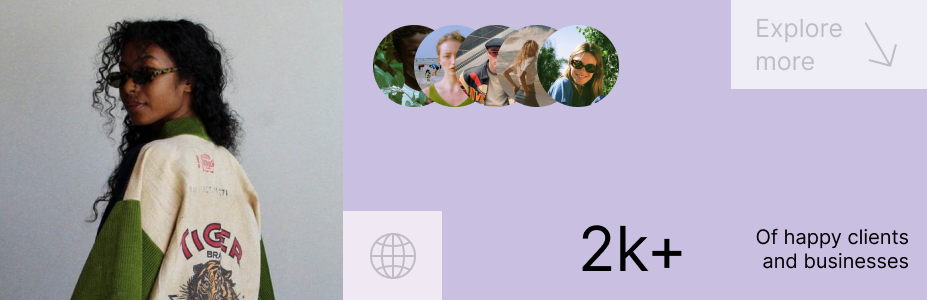
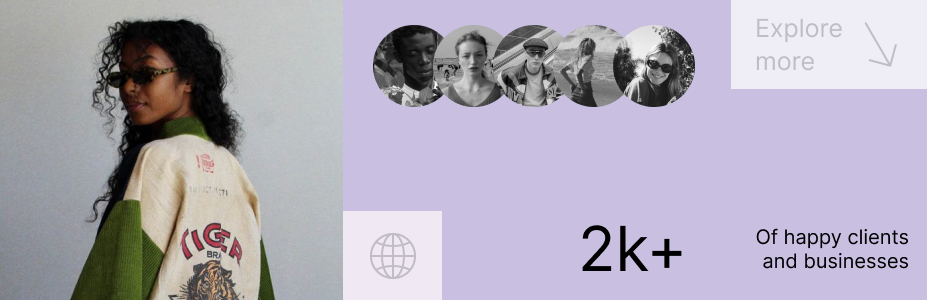
feat: alteração de imagem info da home e cores de icones em contato

Changed region(s): [[0.3927, 0.06, 0.7551, 0.36]]

diff --git a/index.html b/index.html
@@ -275,7 +275,7 @@
                                 <i class="bi bi-cursor-fill"></i>
                                 Location
                             </h3>
-                            <p>
+                            <p style="color: #666;">
                                 1 Rue des Sapins, 63700 Youx, France
                             </p>
                         </div>
